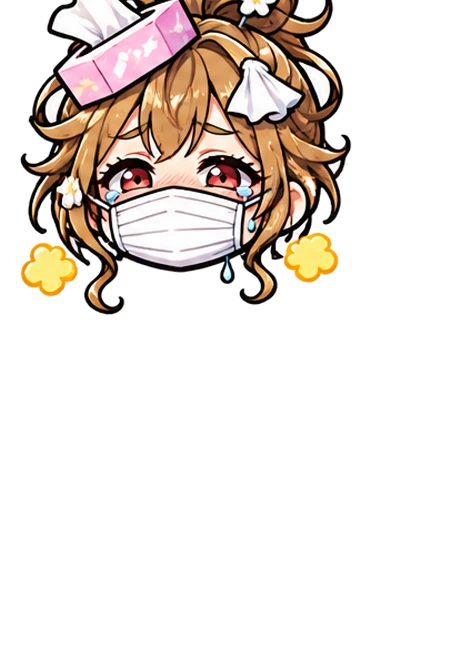
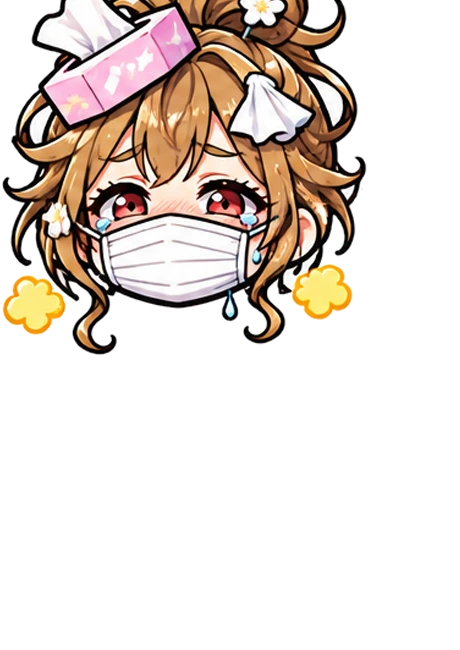
花粉症の女の子（h95）の首の位置と大きさをなおす
Claude-Session: https://claude.ai/code/session_01VHjFEfwVTHCUbPqPQAxvxE

Changed region(s): [[0.0, 0.0, 0.8217, 0.5538]]

diff --git a/tools/avatar-v3/place3.py b/tools/avatar-v3/place3.py
@@ -45,6 +45,7 @@ print('hand y', HAND_Y, 'hand span', HAND_W)
 import sys
 PRE, NH, H0, NB, B0 = sys.argv[1], int(sys.argv[2]), int(sys.argv[3]), int(sys.argv[4]), int(sys.argv[5])
 FEETONLY = 'feet' in sys.argv[6:]   # 足まで描いてある服は、首から足でそろえる（手で合わせると浮く）
+FIX3 = {'h95': (1.1, 40)}   # 目で見て直したもの（大きさ・下へ）。花粉症の女の子は、たれた髪の先があごより下
 heads = []
 for k in range(NH):
     p = np.asarray(Image.open(f'cut/{PRE}h{k:02d}.png')); name = f'h{H0 + k}'
@@ -56,7 +57,8 @@ med = float(np.median([q[2] for q in heads]))
 for nm, pp, ss, ccx, chin in heads:
     if abs(ss / med - 1) > .12:   # 顔がうまく測れない（マスク・ひげなど）：大きさはまわりと同じ、あごは絵の下はし
         print('head scale fix', nm, round(ss / med, 2)); ss = med; chin = np.nonzero(pp[..., 3] > 128)[0].max()
-    put(pp, ss, 200 - ccx * ss, 314 - chin * ss, nm); thumb(pp, nm)
+    f, dy = FIX3.get(nm, (1, 0)); cy = 314 - chin * ss; ss2 = ss * f
+    put(pp, ss2, 200 - ccx * ss2, cy - chin * (ss2 - ss) + dy, nm); thumb(pp, nm)
 for k in range(NB):
     p = np.asarray(Image.open(f'cut/{PRE}b{k:02d}.png')); name = f'b{B0 + k}'
     h = hands(p); ys, xs = np.nonzero(p[..., 3] > 128); sf = (FEET - NECK) / (ys.max() - ys.min())
